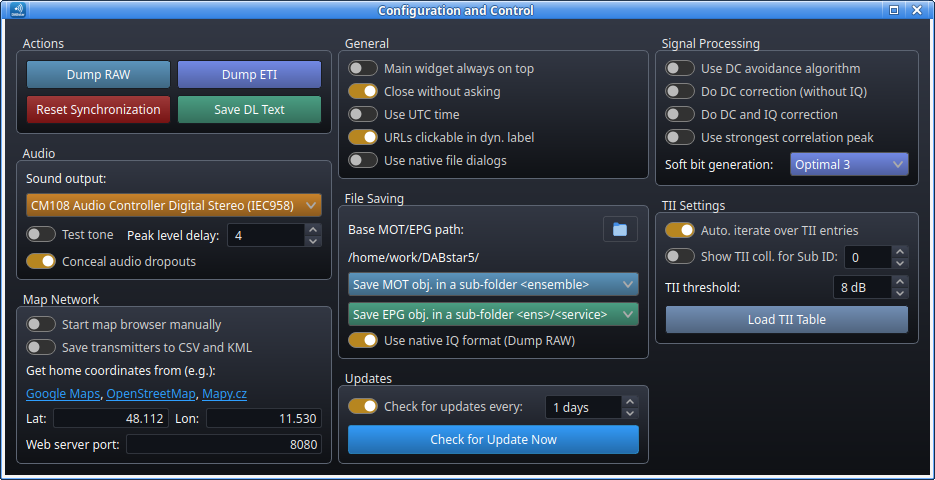
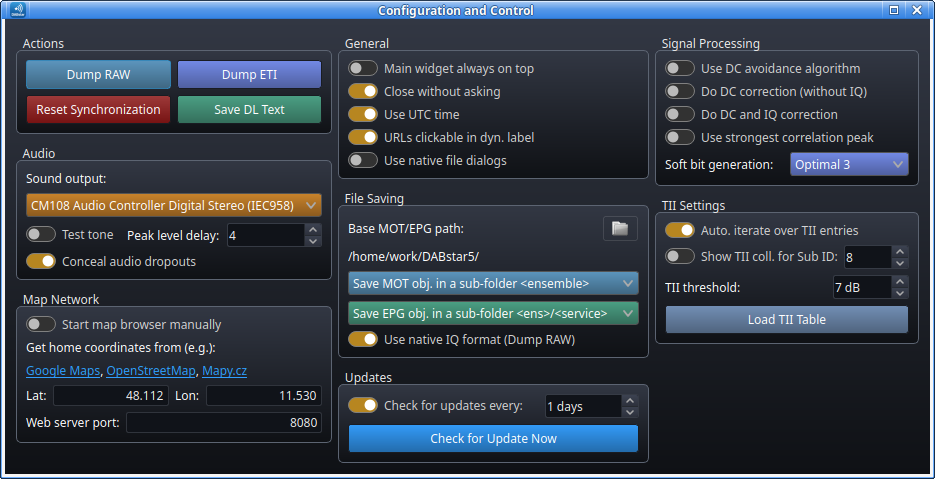
Update README images and section titles
Rename "Pictures from V5.7.0" to "Pictures from DABstar." Add a new technical details image and update existing ones.

diff --git a/README.md b/README.md
@@ -3,7 +3,7 @@
 ## Table of Content
 <!-- TOC -->
   * [Table of Content](#table-of-content)
-  * [Pictures from V5.7.0](#pictures-from-v570)
+  * [Pictures from DABstar](#pictures-from-dabstar)
     * [Main window](#main-window)
       * [Traffic Light indicators in the main window](#traffic-light-indicators-in-the-main-window)
       * [SNR and MER bar graph in the main window](#snr-and-mer-bar-graph-in-the-main-window)
@@ -53,7 +53,7 @@
 
 ---
 
-## Pictures from V5.7.0
+## Pictures from DABstar
 
 ### Main window
 
@@ -123,6 +123,8 @@ The "Remove 'No signal' files" button helps clean up the list of invalid recordi
 
 ![](res/for_readme/scope-spec-corr.png)
 
+Shows the spectrum scope, IQ constellation, impulse response / correlation, and audio spectrum analyzer. The audio display supports multiple visualization modes (FFT spectrum unfilled/filled, 8 log bands, or off) with interactive horizontal and vertical zooming/panning.
+
 ### FIB content window
 
 ![](res/for_readme/fib-content.png)
@@ -134,6 +136,8 @@ The "Remove 'No signal' files" button helps clean up the list of invalid recordi
 ### TII-list window which shows received transmitter details
 
 ![](res/for_readme/TII-list.png)
+
+Displays detected Transmitter Identification Information (TII), including main/sub ID, transmitter location, distance, azimuth, and signal strength. The transmitter list can be exported directly to CSV or KML format for external mapping and propagation analysis.
 
 ### Map view of received transmitters
 
@@ -150,6 +154,7 @@ The "Remove 'No signal' files" button helps clean up the list of invalid recordi
 ### Audio Service Details window of the selected service
 
 ![](res/for_readme/tech-details.png)
+![](res/for_readme/tech-details2.png)
 
 ### The PRS correlation window of a whole DAB frame (CIR)
 
@@ -161,6 +166,8 @@ The "Remove 'No signal' files" button helps clean up the list of invalid recordi
 ![](res/for_readme/device-rtltcp.png)
 ![](res/for_readme/device-hackrf.png)
 ![](res/for_readme/device-sdrplay.png)
+
+Device configuration windows provide hardware-specific controls (gain, AGC, PPM correction, bandwidth). Supported RTL-SDR and RTL-TCP devices also display detected tuner chip types (e.g. R820T, R828D, E4000, FC0012/13, FC2580) and library/firmware information.
 
 ---
 
